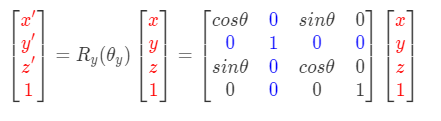
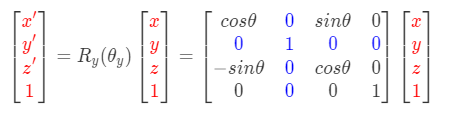
修改公式

diff --git a/_posts/2018-10-29-矩阵变换.md b/_posts/2018-10-29-矩阵变换.md
@@ -498,32 +498,6 @@ mul(matrix, position) --->  mul(position, transpose(matrix))
 ##### 在右手系点绕y轴逆时针旋转的矩阵
 
 
-$
-\begin{bmatrix}
-\color{Red}x'\\
-\color{Red}y'\\
-\color{Red}z'\\
-\color{Red}1\\
-\end{bmatrix}=R_{y}(\theta_{y})\begin{bmatrix}
-\color{Red}x\\
-\color{Red}y\\
-\color{Red}z\\
-\color{Red}1\\
-\end{bmatrix}
- =\begin{bmatrix}
-cos\theta & \color{blue}0 & sin\theta & 0 \\ 
-\color{blue}0 & \color{blue}1 & \color{blue}0 & \color{blue}0 \\ 
--sin\theta & \color{blue}0 & cos\theta &0 \\ 
-0 & \color{blue}0 & 0 & 1
-\end{bmatrix}\begin{bmatrix}
-\color{Red}x\\
-\color{Red}y\\
-\color{Red}z\\
-\color{Red}1\\
-\end{bmatrix}
-$
-  
-
   ![image](/img/pos_87.png)
 
 ##### 在右手系点绕z轴逆时针旋转的矩阵
